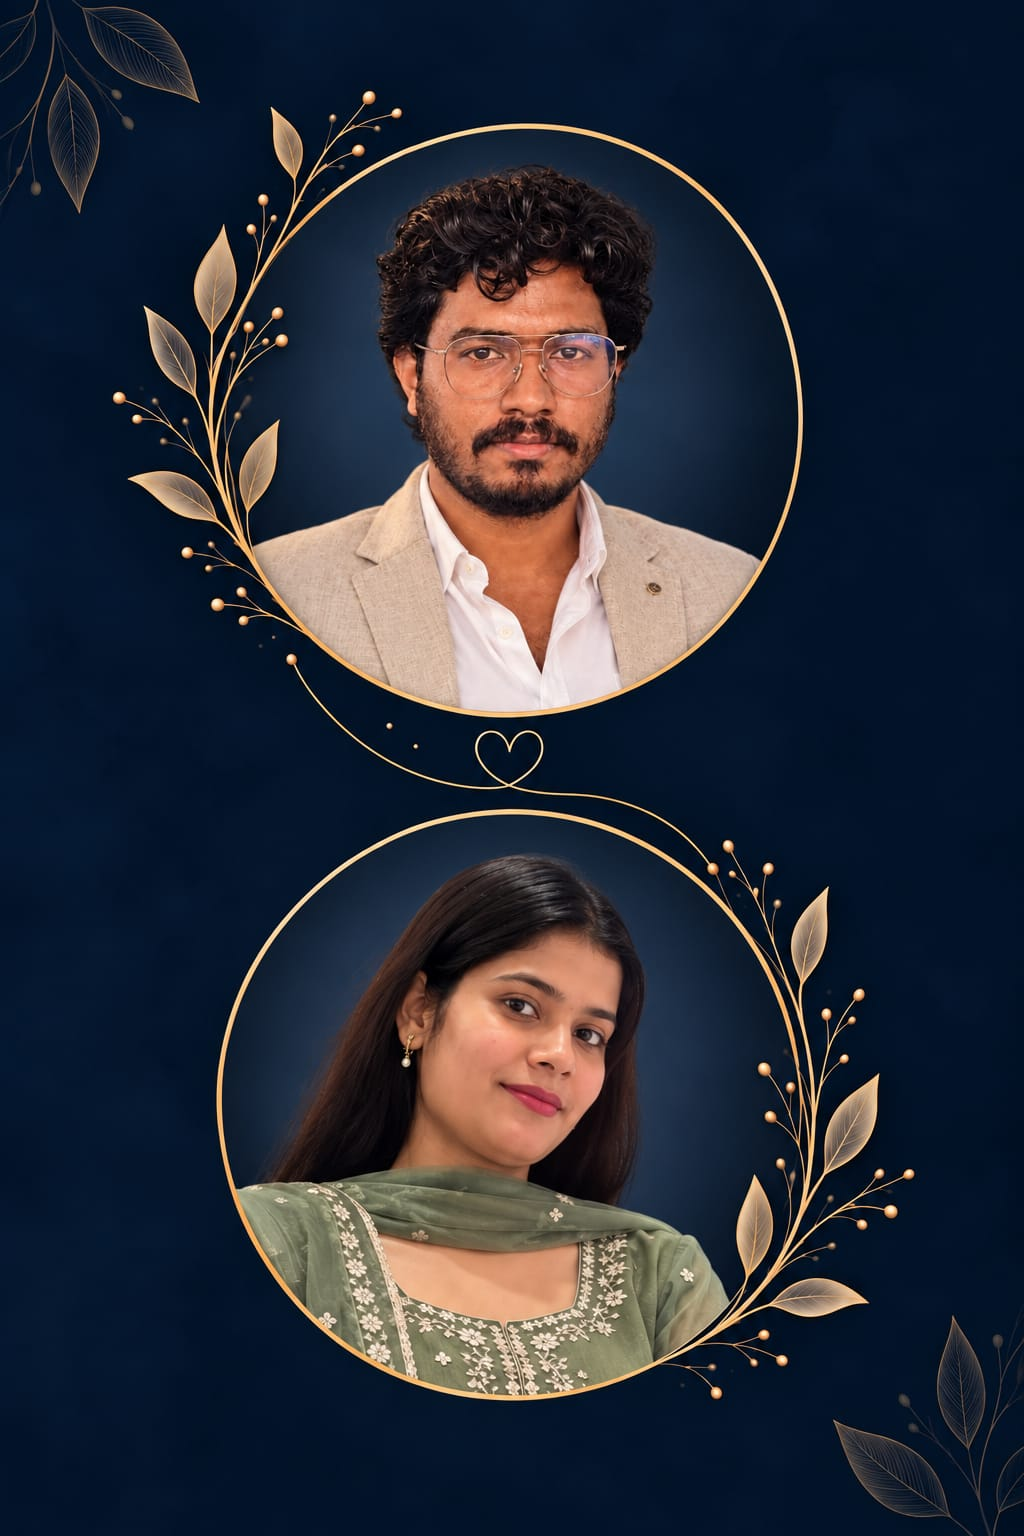
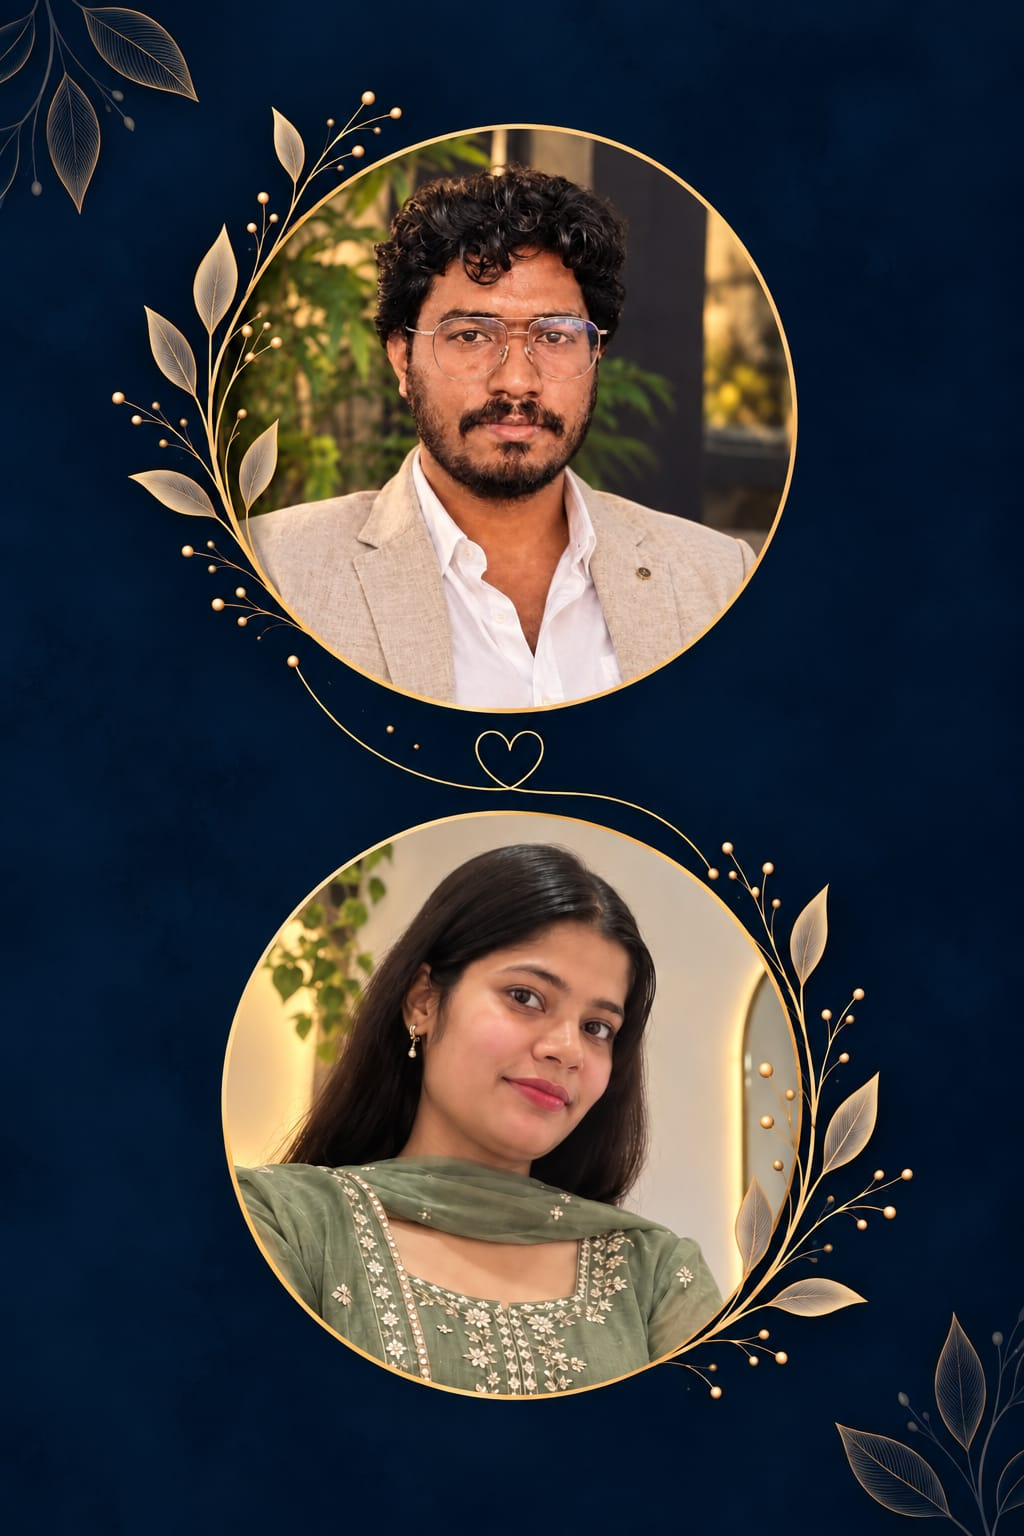
whatsapp

diff --git a/weddinginvitationhindi.html b/weddinginvitationhindi.html
@@ -446,7 +446,7 @@ footer .fnames{font-size:clamp(1.6rem,8.4vw,3.2rem);line-height:1.4;margin:.6rem
   <div class="wrap rv">
     <h2 id="rh">हमारे उत्सव में पधारिए</h2>
     <p class="sub">आपकी उपस्थिति से<br>हमारा उत्सव पूर्ण होगा।</p>
-    <button class="btn wa" id="waBtn" aria-label="RSVP on WhatsApp"><svg viewBox="0 0 24 24" aria-hidden="true"><path d="M12 2a10 10 0 0 0-8.6 15L2 22l5.2-1.4A10 10 0 1 0 12 2zm5.200 13.800c-.2.600-1.300 1.200-1.800 1.200-.5.100-1 .2-3.300-.7-2.800-1.200-4.600-4-4.700-4.200-.1-.2-1.100-1.500-1.100-2.800s.7-2 1-2.200c.2-.3.5-.3.700-.3h.5c.2 0 .4 0 .6.5l.8 2c.1.2.1.4 0 .5l-.4.6c-.1.2-.3.3-.1.6.2.3.8 1.300 1.700 2.100 1.200 1 2.100 1.300 2.400 1.500.3.1.4.1.6-.1l.8-1c.2-.3.4-.2.6-.1l1.900.9c.3.1.5.2.5.3.1.2.1.7-.1 1.300z"/></svg>व्हाट्सऐप पर RSVP करें</button>
+  </button class="btn wa" id="waBtn" aria-label="RSVP on WhatsApp"></svg viewBox="0 0 24 24" aria-hidden="true"><path d="M12 2a10 10 0 0 0-8.6 15L2 22l5.2-1.4A10 10 0 1 0 12 2zm5.200 13.800c-.2.600-1.300 1.200-1.800 1.200-.5.100-1 .2-3.300-.7-2.800-1.200-4.600-4-4.700-4.200-.1-.2-1.100-1.500-1.100-2.800s.7-2 1-2.200c.2-.3.5-.3.700-.3h.5c.2 0 .4 0 .6.5l.8 2c.1.2.1.4 0 .5l-.4.6c-.1.2-.3.3-.1.6.2.3.8 1.300 1.700 2.100 1.200 1 2.100 1.300 2.400 1.500.3.1.4.1.6-.1l.8-1c.2-.3.4-.2.6-.1l1.900.9c.3.1.5.2.5.3.1.2.1.7-.1 1.300z"/></svg></button>
   </div>
 </section>
 
@@ -472,7 +472,7 @@ footer .fnames{font-size:clamp(1.6rem,8.4vw,3.2rem);line-height:1.4;margin:.6rem
   <h2 class="names fnames"><span data-c="groomName"></span><span class="amp">&amp;</span><span data-c="brideName"></span></h2>
   <p class="date" style="font-size:.85rem">21 नवंबर 2026</p>
   <p class="date" style="font-size:.8rem;color:var(--bright-gold)"><span data-c="hashtag"></span></p>
-  <nav aria-label="Links"><a id="ig" target="_blank" rel="noopener">इंस्टाग्राम</a><a id="wa2" target="_blank" rel="noopener">व्हाट्सऐप</a><a id="mp2" target="_blank" rel="noopener">गूगल मैप्स</a></nav>
+  <nav aria-label="Links"><a id="ig" target="_blank" rel="noopener"></a><a id="wa2" target="_blank" rel="noopener">व्हाट्सऐप</a><a id="mp2" target="_blank" rel="noopener">गूगल मैप्स</a></nav>
   <p class="dev" style="color:var(--bright-gold);font-size:1.3rem">शुभमस्तु</p>
   <svg width="30" height="33" viewBox="0 0 40 44" style="margin-top:1rem;filter:drop-shadow(0 0 8px #E5B84B)" role="img" aria-label="Golden diya"><use href="#dy" xlink:href="#dy"/></svg>
 </footer>
@@ -491,7 +491,7 @@ footer .fnames{font-size:clamp(1.6rem,8.4vw,3.2rem);line-height:1.4;margin:.6rem
 const sharedConfig = {
     weddingDate: "November 21, 2026 16:00:00",
     hashtag: "#MANISHWEDSRISHU",
-    rsvpPhone: "917305210627",
+    rsvpPhone: "918824081770",
     mapsUrl: "https://maps.app.goo.gl/TcMdar1f8pvF7XF29",
     instagramUrl: "YOUR_INSTAGRAM_URL",
     musicUrl: "song.mp3",
@@ -716,7 +716,7 @@ const copy = {
     }
     function initLinks() {
         const wa = `https://wa.me/${weddingConfig.rsvpPhone}?text=${encodeURIComponent(weddingConfig.whatsappMessage)}`;
-        $("#waBtn").onclick = () => { location.href = wa; };
+        <!-- $("#waBtn").onclick = () => { location.href = wa; }; -->
         $("#wa2").href = wa;
         $("#ig").href = weddingConfig.instagramUrl;
         $("#mp2").href = weddingConfig.mapsUrl;

diff --git a/index.html b/index.html
@@ -443,7 +443,7 @@ footer .fnames{font-size:clamp(1.6rem,8.4vw,3.2rem);line-height:1.4;margin:.6rem
   <div class="wrap rv">
     <h2 id="rh">JOIN US IN OUR CELEBRATION</h2>
     <p class="sub">Your presence will make<br>our celebration complete.</p>
-    <button class="btn wa" id="waBtn" aria-label="RSVP on WhatsApp"><svg viewBox="0 0 24 24" aria-hidden="true"><path d="M12 2a10 10 0 0 0-8.6 15L2 22l5.2-1.4A10 10 0 1 0 12 2zm5.200 13.800c-.2.600-1.300 1.200-1.800 1.200-.5.100-1 .2-3.300-.7-2.800-1.200-4.600-4-4.700-4.200-.1-.2-1.100-1.500-1.100-2.800s.7-2 1-2.200c.2-.3.5-.3.700-.3h.5c.2 0 .4 0 .6.5l.8 2c.1.2.1.4 0 .5l-.4.6c-.1.2-.3.3-.1.6.2.3.8 1.300 1.700 2.100 1.200 1 2.100 1.300 2.400 1.500.3.1.4.1.6-.1l.8-1c.2-.3.4-.2.6-.1l1.900.9c.3.1.5.2.5.3.1.2.1.7-.1 1.300z"/></svg>RSVP ON WHATSAPP</button>
+  </button class="btn wa" id="waBtn" aria-label="RSVP on WhatsApp"></svg viewBox="0 0 24 24" aria-hidden="true"><path d="M12 2a10 10 0 0 0-8.6 15L2 22l5.2-1.4A10 10 0 1 0 12 2zm5.200 13.800c-.2.600-1.300 1.200-1.800 1.200-.5.100-1 .2-3.300-.7-2.800-1.200-4.600-4-4.700-4.200-.1-.2-1.100-1.500-1.100-2.800s.7-2 1-2.200c.2-.3.5-.3.700-.3h.5c.2 0 .4 0 .6.5l.8 2c.1.2.1.4 0 .5l-.4.6c-.1.2-.3.3-.1.6.2.3.8 1.300 1.700 2.100 1.200 1 2.100 1.300 2.400 1.500.3.1.4.1.6-.1l.8-1c.2-.3.4-.2.6-.1l1.900.9c.3.1.5.2.5.3.1.2.1.7-.1 1.300z"/></svg></button>
   </div>
 </section>
 
@@ -469,7 +469,7 @@ footer .fnames{font-size:clamp(1.6rem,8.4vw,3.2rem);line-height:1.4;margin:.6rem
   <h2 class="names fnames"><span data-c="groomName"></span><span class="amp">&amp;</span><span data-c="brideName"></span></h2>
   <p class="date" style="font-size:.85rem">21 NOVEMBER 2026</p>
   <p class="date" style="font-size:.8rem;color:var(--bright-gold)"><span data-c="hashtag"></span></p>
-  <nav aria-label="Links"><a id="ig" target="_blank" rel="noopener">INSTAGRAM</a><a id="wa2" target="_blank" rel="noopener">WHATSAPP</a><a id="mp2" target="_blank" rel="noopener">GOOGLE MAPS</a></nav>
+  <nav aria-label="Links"><a id="ig" target="_blank" rel="noopener"></a><a id="wa2" target="_blank" rel="noopener">WHATSAPP</a><a id="mp2" target="_blank" rel="noopener">GOOGLE MAPS</a></nav>
   <p class="dev" style="color:var(--bright-gold);font-size:1.3rem">शुभमस्तु</p>
   <svg width="30" height="33" viewBox="0 0 40 44" style="margin-top:1rem;filter:drop-shadow(0 0 8px #E5B84B)" role="img" aria-label="Golden diya"><use href="#dy" xlink:href="#dy"/></svg>
 </footer>
@@ -488,7 +488,7 @@ footer .fnames{font-size:clamp(1.6rem,8.4vw,3.2rem);line-height:1.4;margin:.6rem
 const sharedConfig = {
     weddingDate: "November 21, 2026 16:00:00",
     hashtag: "#MANISHWEDSRISHU",
-    rsvpPhone: "917305210627",
+    rsvpPhone: "918824081770",
     mapsUrl: "https://maps.app.goo.gl/TcMdar1f8pvF7XF29",
     instagramUrl: "YOUR_INSTAGRAM_URL",
     musicUrl: "song.mp3",
@@ -713,7 +713,7 @@ const copy = {
     }
     function initLinks() {
         const wa = `https://wa.me/${weddingConfig.rsvpPhone}?text=${encodeURIComponent(weddingConfig.whatsappMessage)}`;
-        $("#waBtn").onclick = () => { location.href = wa; };
+        <!-- $("#waBtn").onclick = () => { location.href = wa; }; -->
         $("#wa2").href = wa;
         $("#ig").href = weddingConfig.instagramUrl;
         $("#mp2").href = weddingConfig.mapsUrl;
